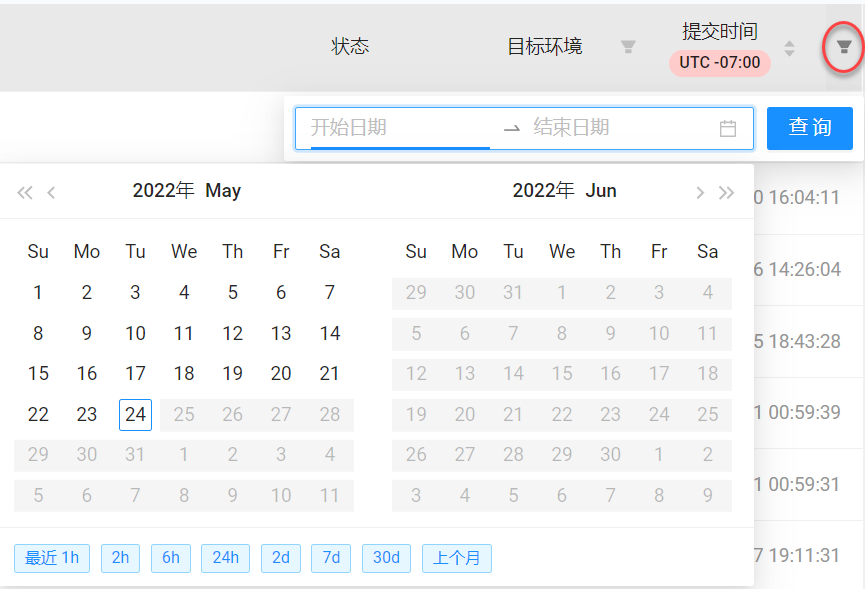
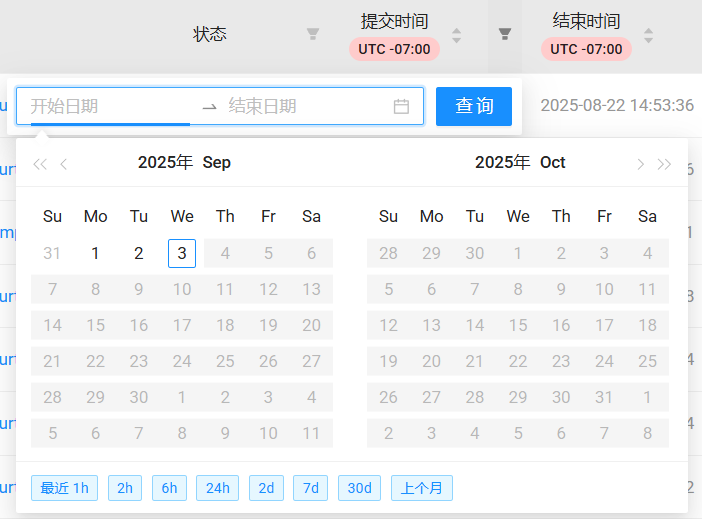
NCP-3838 #comment updated screenshots to reflect latest UI

diff --git a/en/docs/portal/tasks/deployments.md b/en/docs/portal/tasks/deployments.md
@@ -12,7 +12,7 @@ When a property and its associated certificates are deployed, CDN Pro sends the 
 
 **Note:** You can also use the **Search** box at the top of the Deployment form to filter the results. Filtering is not case-sensitive.
 
-<p align="center"><img src="/docs/resources/images/tasks/validation_time_range_filter.png" alt="Filter by date" width="700"></p>
+<p align="center"><img src="/docs/resources/images/tasks/deployment_time_range_filter.png" alt="Filter by date" width="700"></p>
 
 y
 3. To filter by deployment target, click the icon at the top of the **Target** column and choose Staging or Production.

diff --git a/zh/docs/portal/tasks/deployments.md b/zh/docs/portal/tasks/deployments.md
@@ -12,7 +12,7 @@ When a property and its associated certificates are deployed, CDN Pro sends the 
 
 **Note:** You can also use the **Search** box at the top of the Deployment form to filter the results. Filtering is not case-sensitive.
 
-<p align="center"><img src="/docs/resources/images/tasks/validation_time_range_filter.png" alt="Filter by date" width="700"></p>
+<p align="center"><img src="/docs/resources/images/tasks/deployment_time_range_filter.png" alt="Filter by date" width="700"></p>
 
 y
 3. To filter by deployment target, click the icon at the top of the **Target** column and choose Staging or Production.
